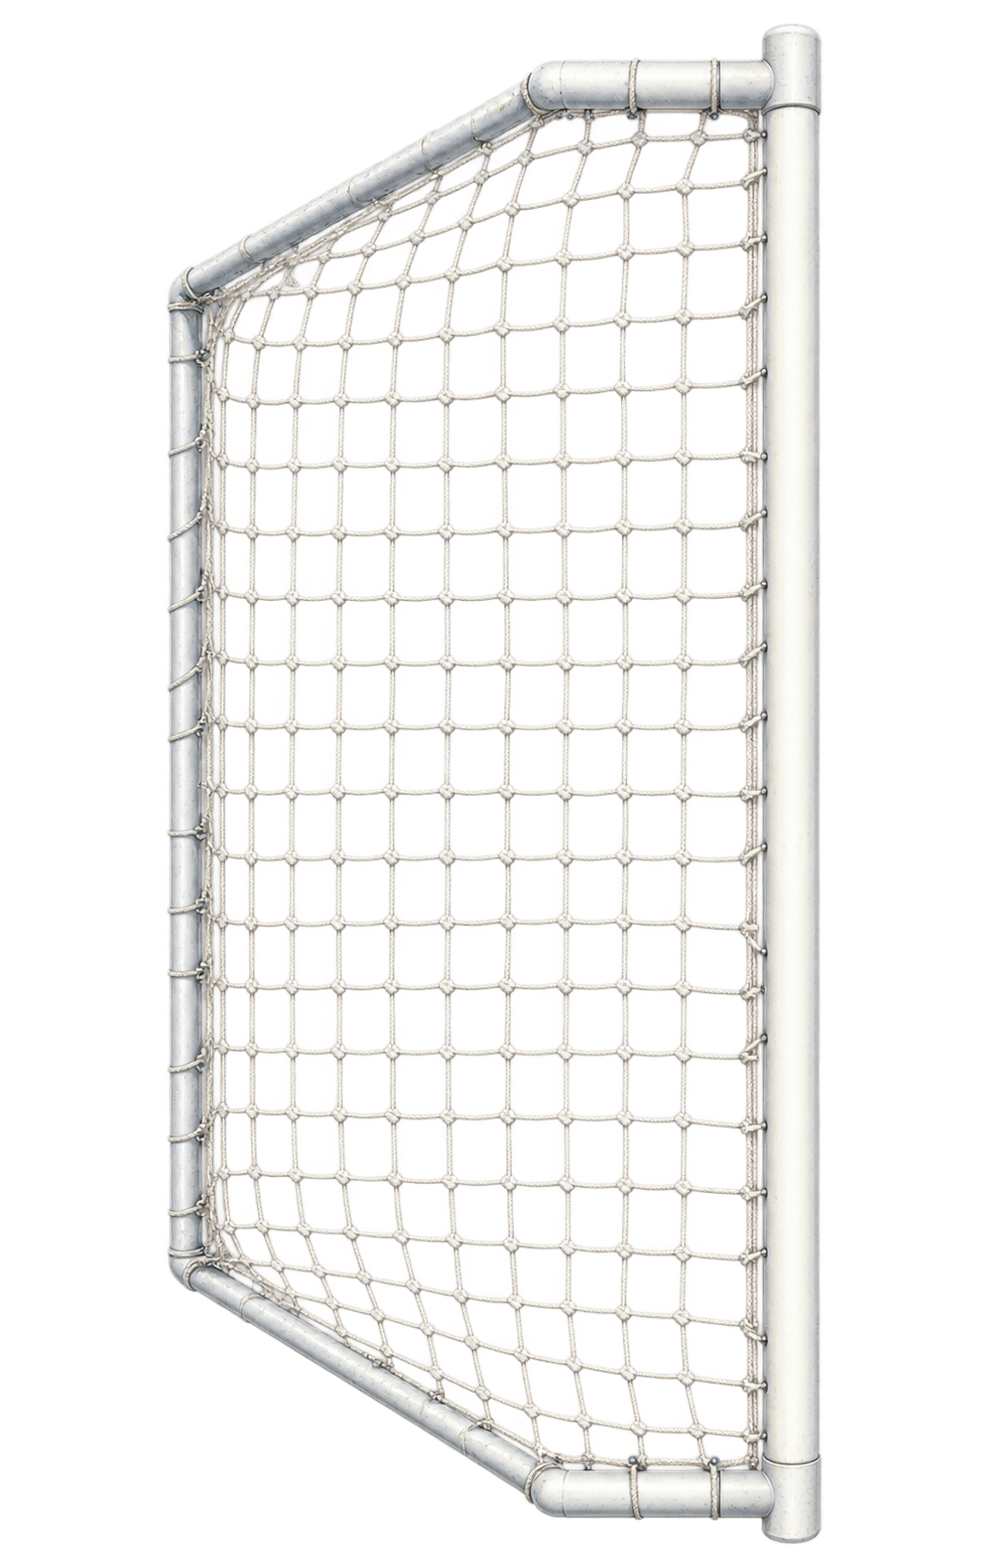
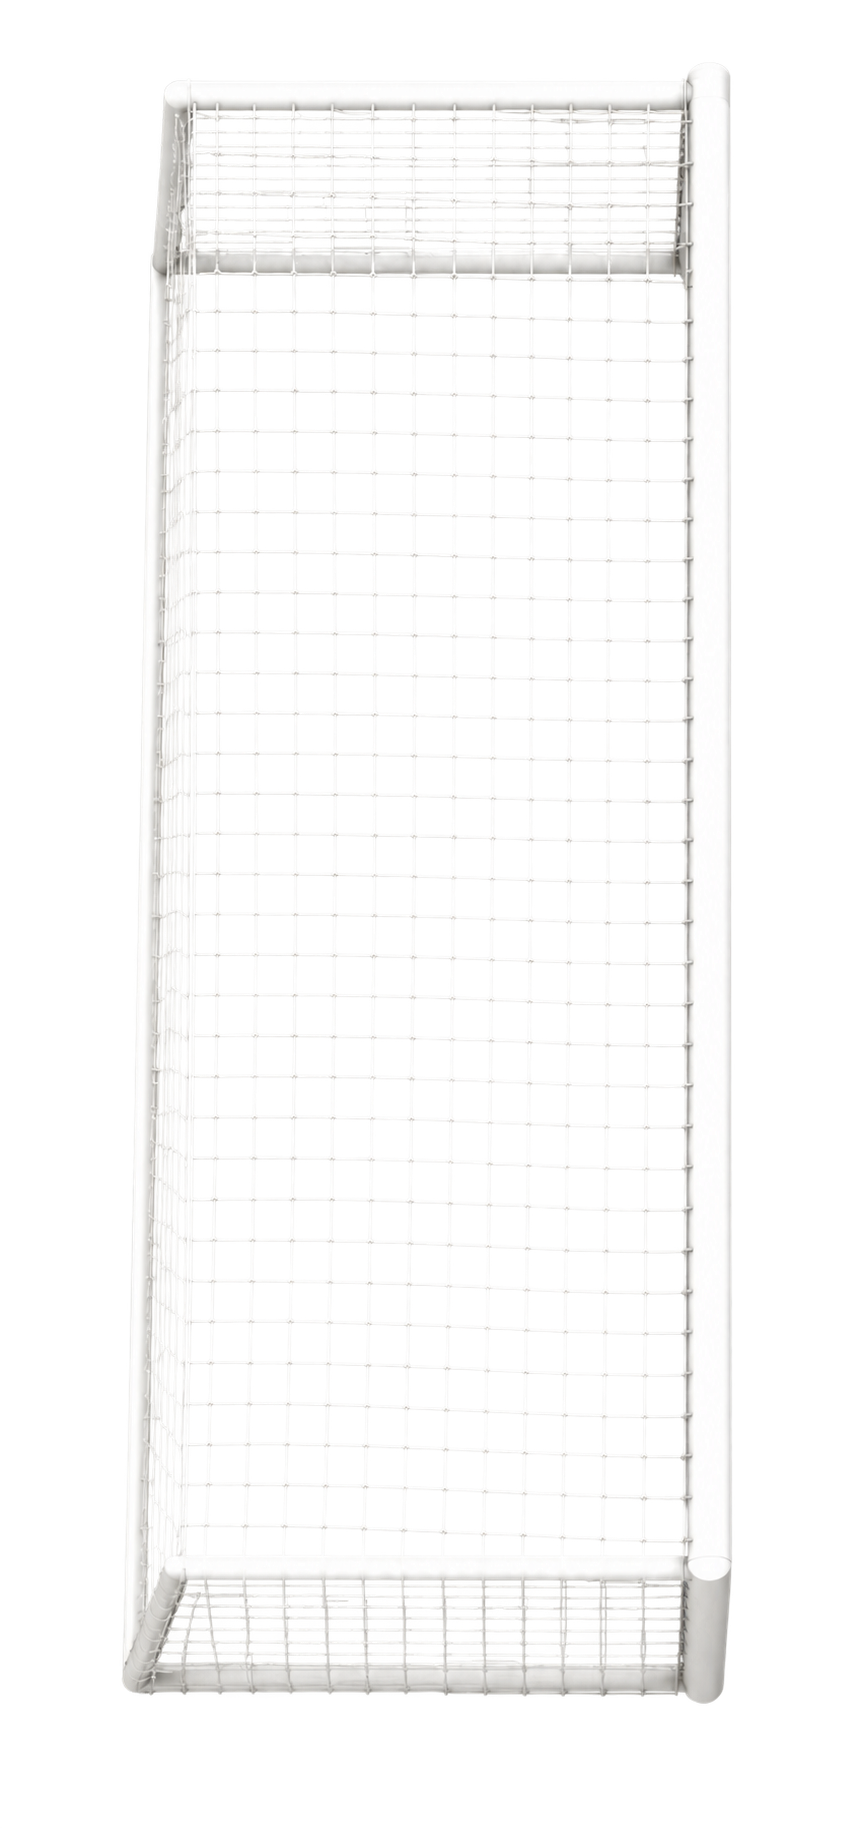
Enlarge soccer ball and angled goals

Changed region(s): [[0.1209, 0.0, 0.8465, 1.0], [0.8465, 0.3067, 0.8767, 0.8588]]

diff --git a/examples/soccer-lounge/test/soccer-field.integration.test.ts b/examples/soccer-lounge/test/soccer-field.integration.test.ts
@@ -59,6 +59,19 @@ describe("soccer field integration", () => {
     expect(soccerBallJson.behaviorType).toBe(SoccerBallBehavior.behaviorType);
     expect(soccerBallJson.visual).toEqual(soccerBallDefinition.visual);
     expect(soccerGoalJson.visual).toEqual(soccerGoalDefinition.visual);
+    expect(soccerBallDefinition.visual.size).toEqual({ width: 6, height: 6 });
+    expect(soccerBallDefinition.body.lockRotation).not.toBe(true);
+    expect(soccerBallDefinition.colliders[0]?.shape).toEqual({
+      type: "circle",
+      radius: 3,
+    });
+    expect(soccerGoalDefinition.visual.size).toEqual({ width: 10, height: 22 });
+    expect(soccerAssets.textures.find(({ id }) => id === "soccer.goal.net")?.frame).toEqual({
+      x: 121,
+      y: 62,
+      width: 612,
+      height: 1642,
+    });
     expect(
       validateAssetReferences(soccerAssets, canvas, [
         soccerBallDefinition,
@@ -73,6 +86,19 @@ describe("soccer field integration", () => {
       { entityId: "left-goal", x: 5, y: 36, rotation: 0 },
       { entityId: "right-goal", x: 115, y: 36, rotation: Math.PI },
     ]);
+  });
+
+  it("preserves ball spin after an off-centre hit", () => {
+    const simulation = build();
+    simulation.addItem(instance(60, 36));
+    simulation.world.setVelocity("match-ball", { x: 8, y: 0 }, 12);
+
+    for (let tick = 0; tick < 12; tick++) simulation.step();
+
+    const ball = simulation.world.registry.require("match-ball");
+    expect(Math.abs(ball.transform.rotation)).toBeGreaterThan(0.1);
+    expect(Math.abs(ball.rigidBody?.angularVelocity ?? 0)).toBeGreaterThan(0.1);
+    simulation.free();
   });
 
   it("blocks the ball at a touchline", () => {
@@ -139,6 +165,17 @@ describe("soccer field integration", () => {
     expect(canvas.staticGeometry.map(({ id }) => id)).toEqual(
       expect.arrayContaining(["left-goal-backstop", "right-goal-backstop"]),
     );
+    expect(canvas.staticGeometry.find(({ id }) => id === "left-goal-roof")).toMatchObject({
+      shape: { type: "rect", width: 10, height: 1 },
+      position: { x: 5, y: 24.5 },
+    });
+    expect(canvas.regions.find(({ id }) => id === "left-goal")?.shape).toEqual({
+      type: "rect",
+      x: 0.5,
+      y: 25,
+      w: 9.5,
+      h: 22,
+    });
     simulation.free();
   });
 });

diff --git a/examples/soccer-lounge/src/soccer-content.ts b/examples/soccer-lounge/src/soccer-content.ts
@@ -6,11 +6,11 @@ import {
 
 export const soccerBallDefinition: ItemDefinition<SoccerBallConfig> = {
   definitionId: "soccer-ball",
-  version: 2,
+  version: 3,
   displayName: "Match ball",
   visual: {
     spriteId: "soccer.ball.idle",
-    size: { width: 3.3, height: 3.3 },
+    size: { width: 6, height: 6 },
     placeholder: { shape: "circle", color: 0xf7f4e9 },
     zIndex: 6,
     variants: {
@@ -42,7 +42,7 @@ export const soccerBallDefinition: ItemDefinition<SoccerBallConfig> = {
     {
       id: "solid",
       role: "itemSolid",
-      shape: { type: "circle", radius: 1.65 },
+      shape: { type: "circle", radius: 3 },
       restitution: 0.9,
       friction: 0.2,
       collisionMask: 0b0000_1100,
@@ -50,7 +50,7 @@ export const soccerBallDefinition: ItemDefinition<SoccerBallConfig> = {
     {
       id: "kick",
       role: "itemSensor",
-      shape: { type: "circle", radius: 2.55 },
+      shape: { type: "circle", radius: 4.2 },
     },
   ],
   behaviorType: "soccerBall",
@@ -66,11 +66,11 @@ export const soccerBallDefinition: ItemDefinition<SoccerBallConfig> = {
 /** Decorative room-owned goal. Collision stays in the canvas definition. */
 export const soccerGoalDefinition: ItemDefinition<Record<string, never>> = {
   definitionId: "soccer-goal",
-  version: 1,
+  version: 2,
   displayName: "Goal and net",
   visual: {
     spriteId: "soccer.goal.net",
-    size: { width: 9, height: 14 },
+    size: { width: 10, height: 22 },
     anchor: { x: 0.5, y: 0.5 },
     zIndex: 3,
   },

diff --git a/examples/soccer-lounge/src/assets.ts b/examples/soccer-lounge/src/assets.ts
@@ -4,7 +4,7 @@ import type { AssetManifest } from "@canvas-physics/client";
 export const soccerAssets: AssetManifest = {
   schemaVersion: 1,
   id: "soccer-lounge",
-  revision: "2026-08-23.2",
+  revision: "2026-08-23.3",
   sources: [
     { id: "field-art", src: "/soccer-field.svg", required: true },
     {
@@ -20,7 +20,12 @@ export const soccerAssets: AssetManifest = {
   ],
   textures: [
     { id: "soccer-field", sourceId: "field-art" },
-    { id: "soccer.goal.net", sourceId: "goal-net-art" },
+    {
+      id: "soccer.goal.net",
+      sourceId: "goal-net-art",
+      // Crop to opaque content so the front post lands exactly on the goal line.
+      frame: { x: 121, y: 62, width: 612, height: 1642 },
+    },
     {
       id: "soccer.ball.idle",
       sourceId: "ball-impact-atlas",

diff --git a/examples/soccer-lounge/ASSET_PROVENANCE.md b/examples/soccer-lounge/ASSET_PROVENANCE.md
@@ -30,26 +30,35 @@ physics.
 ## Goal and net
 
 `public/assets/soccer-goal-net.png` was generated with OpenAI image generation
-on 2026-08-23. It is a transparent portrait sprite used by both room-owned goal
-items; the right-side item rotates the same texture 180 degrees.
+on 2026-08-23. It is an 860×1828 transparent portrait sprite used by both
+room-owned goal items; the right-side item rotates the same texture 180
+degrees. The asset manifest crops its alpha content to pixels
+`121,62–732,1703`, making the front post the exact outer texture edge that is
+placed on the configured goal line.
 
-Final generation prompt:
+Final composition prompt:
 
-> Use case: stylized-concept. Asset type: top-down 2D multiplayer game
-> environment sprite with transparent alpha. Primary request: create one
-> shallow soccer goal and net viewed directly from above, for a top-down soccer
-> field; overall physical footprint is 9 units deep horizontally by 14 units
-> tall vertically. Scene/backdrop: GENUINELY TRANSPARENT ALPHA, not a
-> checkerboard pattern and not a colored backdrop. Subject: a single white
-> metal goal; open goal mouth on the RIGHT side spanning the tall vertical
-> dimension; shallow net extends backward toward the LEFT to a rear frame; taut
-> white mesh connects the front posts to the rear frame. Style/medium: polished
-> clean 2D game sprite, subtle hand-painted shading, crisp orthographic overhead
-> silhouette. Composition/framing: portrait-oriented image and object footprint,
-> approximately 9:14 width-to-height; full goal centered with modest transparent
-> padding; exact direct top-down view suitable for 180-degree rotation for the
-> opposite goal. Color palette: off-white posts, pale gray net cord, restrained
-> cool-gray shading. Constraints: real transparent alpha; exactly one goal;
-> shallow net depth; tall goal mouth; no checkerboard; no grass; no field; no
-> ball; no players; no text; no logos; no watermark; no perspective tilt; no
-> background; no extra objects.
+> Create a 3D orthographic PLAN-VIEW render of one soccer goal for an overhead
+> video game. The camera looks almost straight down at the goal from the sky,
+> tilted only 15 degrees toward the pitch. The goal must appear as a shallow
+> rectangular/trapezoidal footprint, approximately 10 units wide horizontally
+> by 22 units tall vertically in the portrait image—not as a tall upright
+> front-facing rectangle. Think architectural roof plan or drone view: the roof
+> net fills the shallow rectangle; the front crossbar/uprights rise only
+> slightly and are visible as a small 3D offset. Layout coordinates: a perfectly
+> straight vertical front goal-line frame near the RIGHT edge from y=10% to
+> y=90%; a parallel rear frame near the LEFT edge; short top and bottom side
+> frames connect them; netting spans the roof and rear. Opening faces RIGHT.
+> White metal tubes and white net, polished but readable game art, orthographic
+> projection, no shadow. Place the isolated goal on a uniform saturated
+> royal-blue chroma-key background (#0000FF) with no texture, gradient,
+> checkerboard, field, ball, players, text, or logo. Large object, clean margins.
+
+Final transparency pass:
+
+> Preserve the soccer goal object, its exact overhead 15-degree camera angle,
+> dimensions, framing, white posts, and net. Remove only the saturated
+> royal-blue chroma background and replace it with true RGBA transparency. Clean
+> any blue spill from the white edges. Do not add, remove, rotate, redraw, crop,
+> or change the goal. No checkerboard pattern, shadow, field, or new background.
+> The PNG pixels outside the goal must have alpha 0.

diff --git a/docs/GAPS.md b/docs/GAPS.md
@@ -24,6 +24,10 @@ downward. Check an item only after the relevant focused tests pass.
 - [x] Move example art onto the versioned Canvas asset-manifest/preload pipeline.
   The soccer field and generated ball atlas now load as ordinary consumer-owned
   assets; collision geometry remains independent data.
+- [ ] Specify and tune avatar-to-item tangential contact for sports integrations.
+  The soccer ball should keep physically expressive spin, while consumers can
+  tune angular impulse and verify that simulation and renderer rotation signs
+  produce intuitive glancing kicks without forking Canvas.
 
 ## Consumer-library Priority 0 — current structural blockers
 
